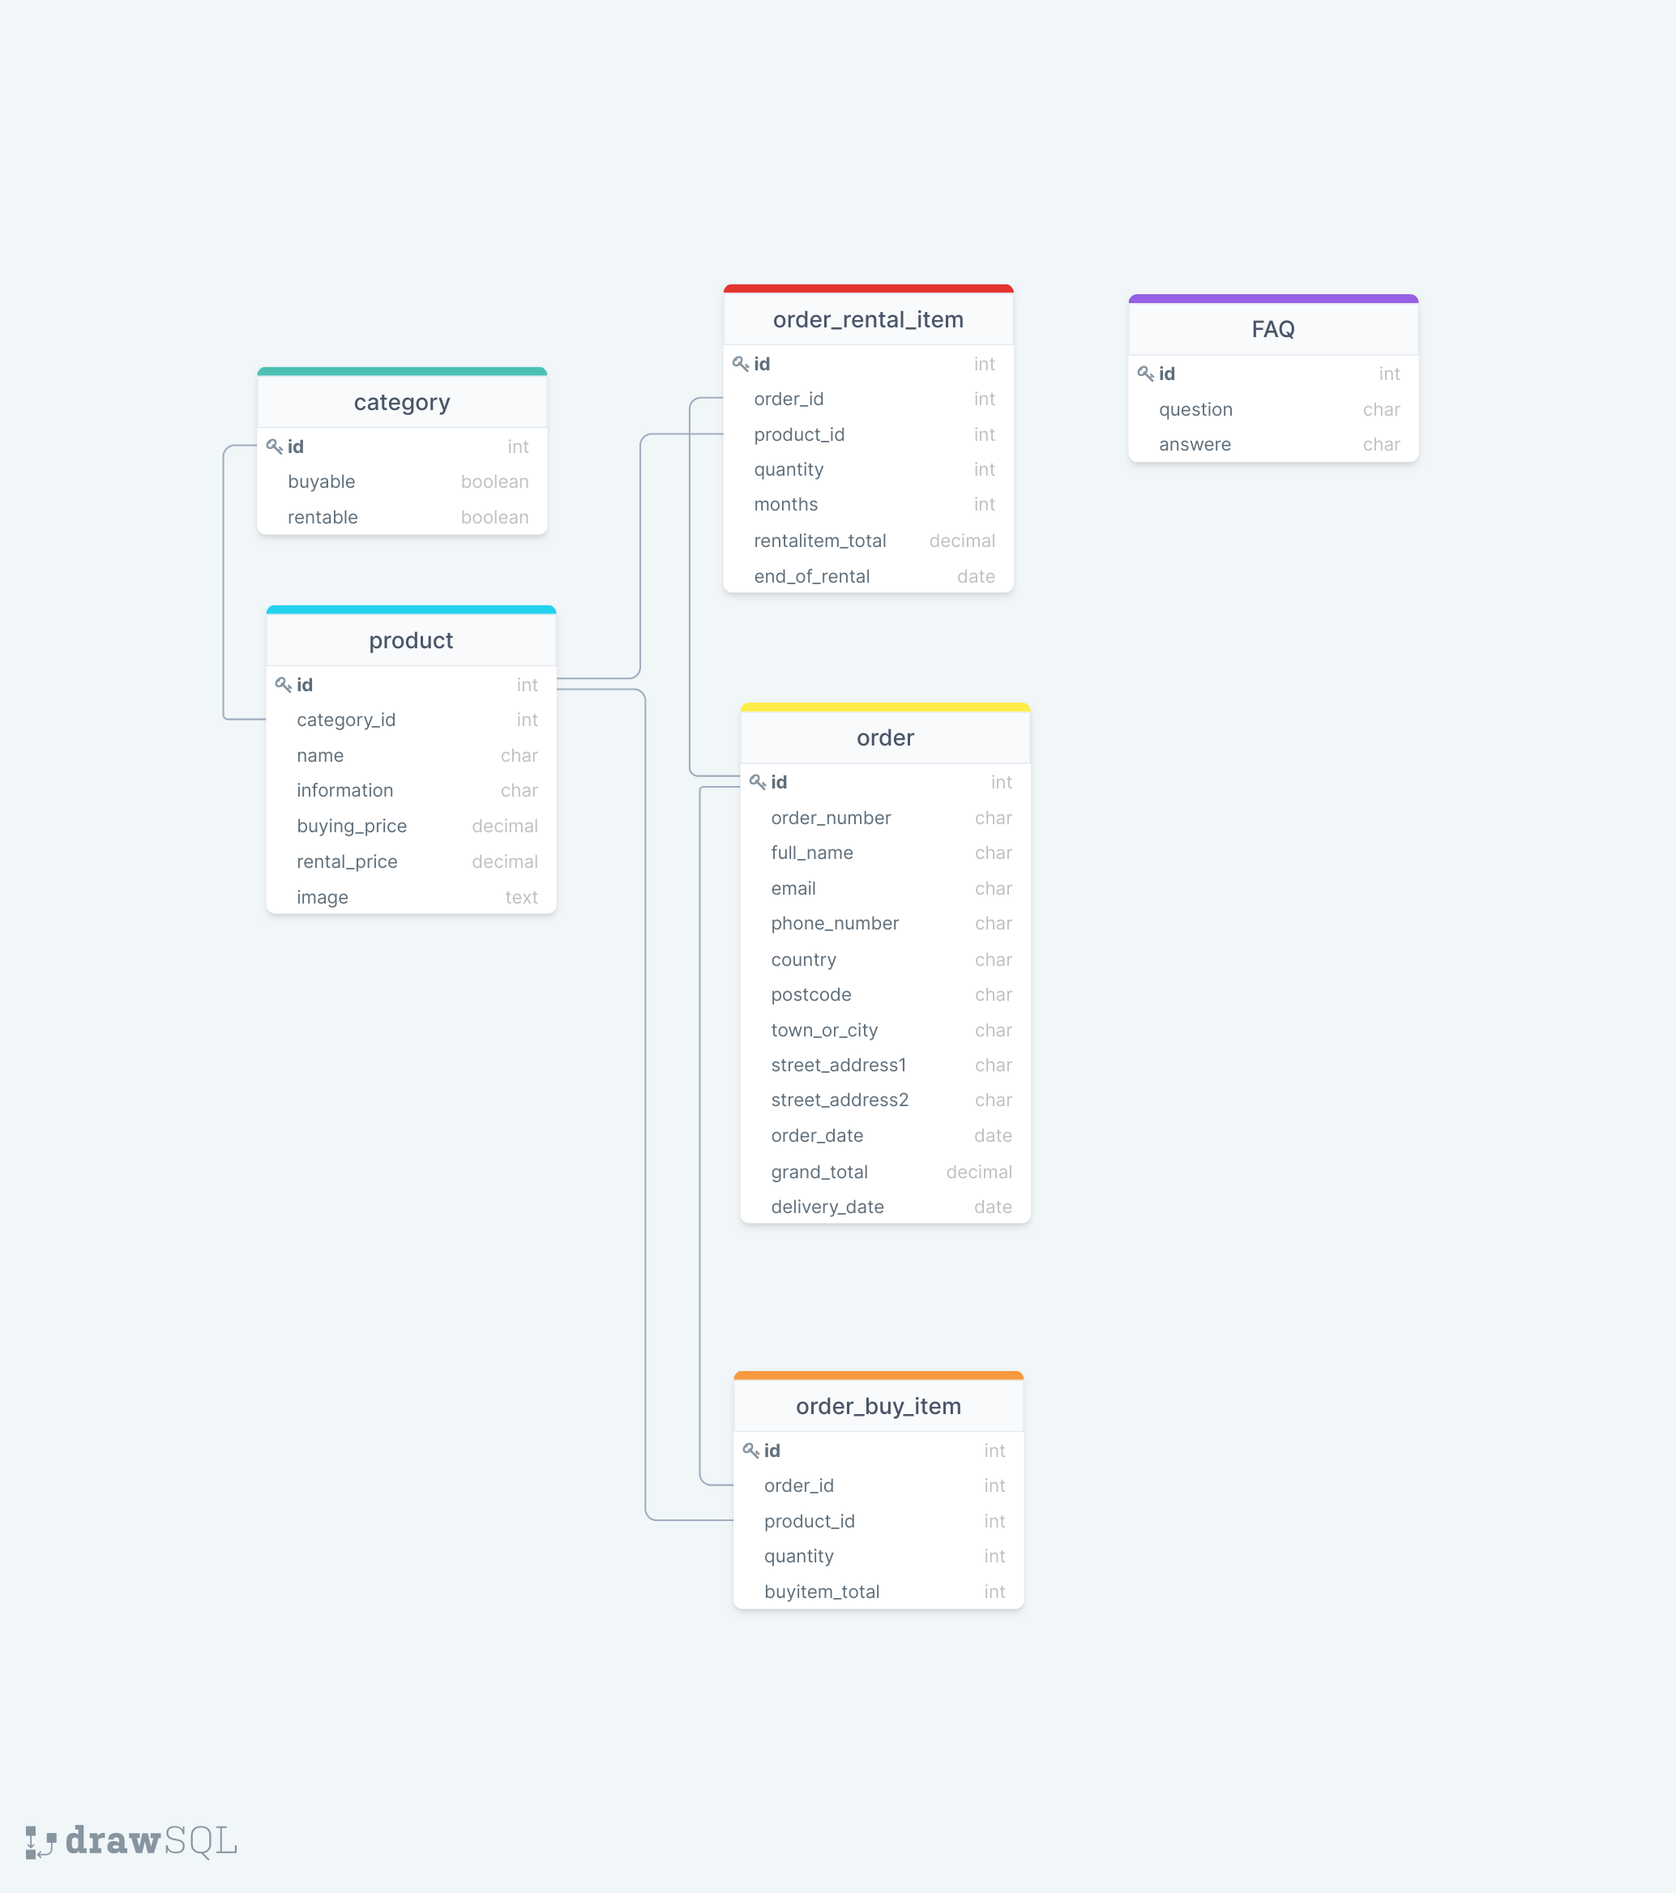
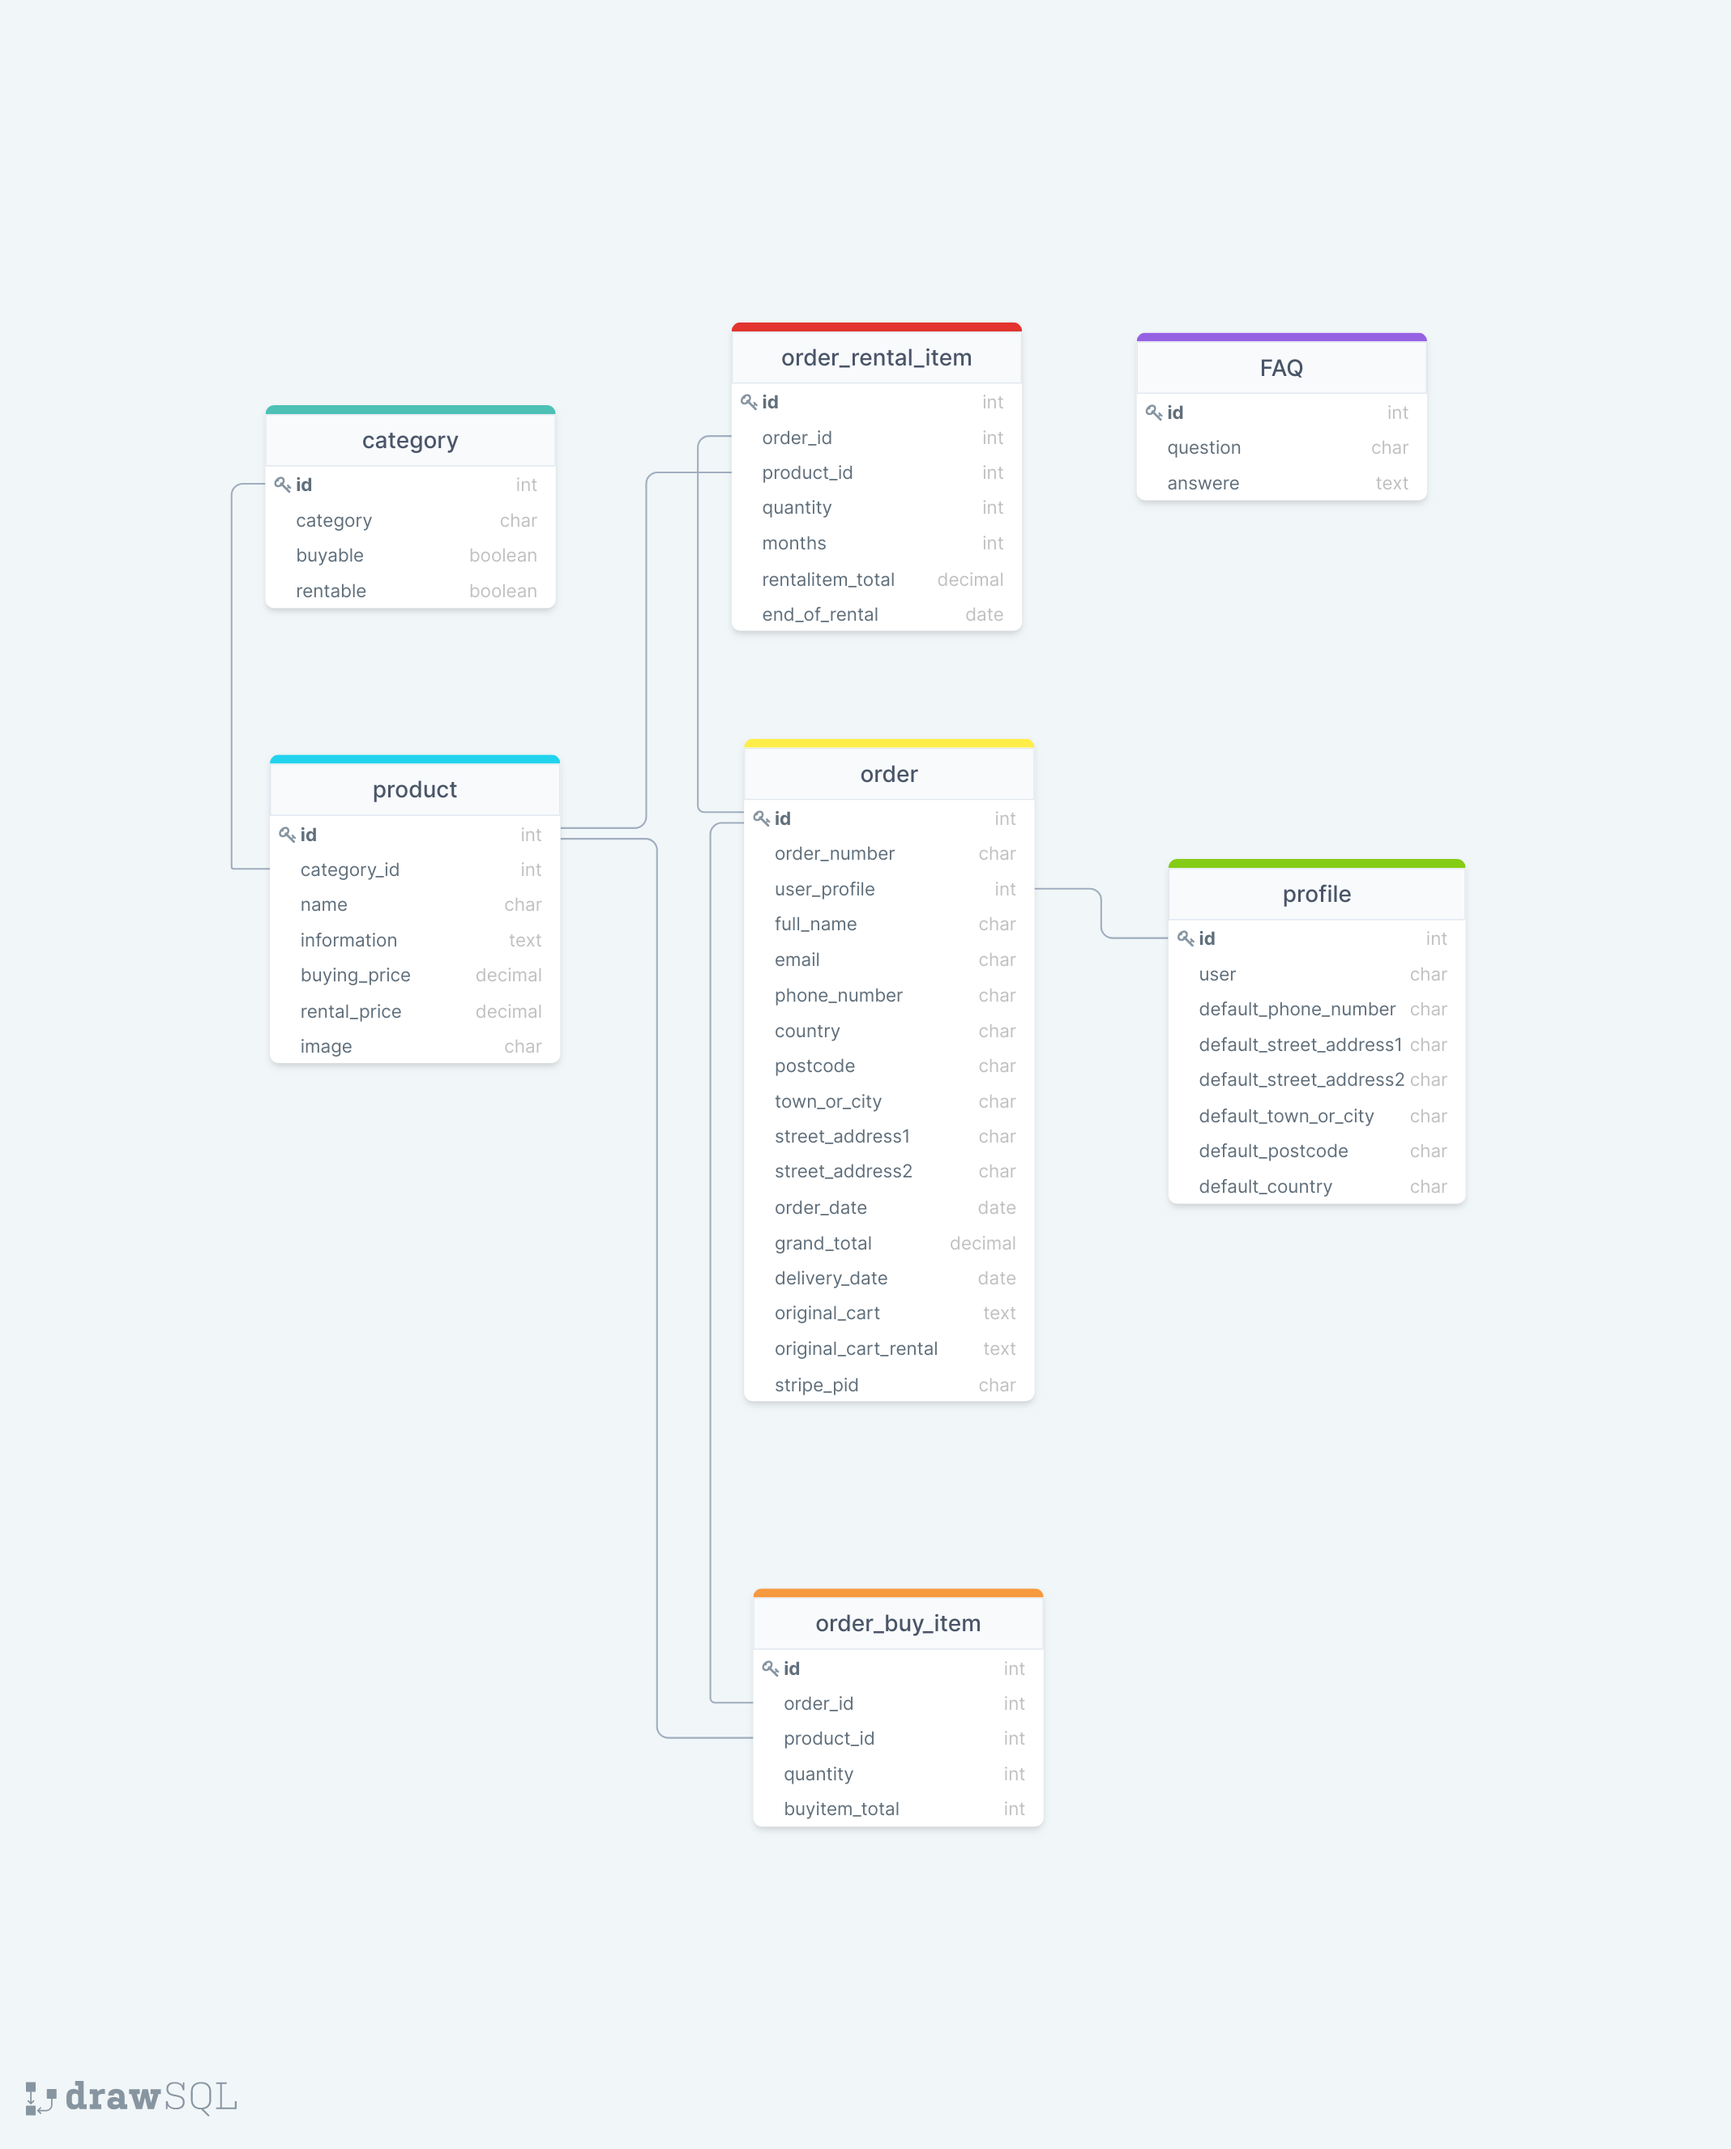
README: Added images of the different features

diff --git a/README.md b/README.md
@@ -150,6 +150,12 @@ The live project can be found here: [https://hire-hens.herokuapp.com/](https://h
 ##### Data modell
 The data modell was visualised with [DrawSQL](https://drawsql.app/):
 ![Data Model](wireframes/data_model.png)
+In the visualisation the modells Group, Email_address, User and Site is not shown. It is the modells that django provide.
+The column types shown in visualization differs in some case from reality. Here is the differenses:
+- In Order and Profile, column country have the django fieldtype: CountryField.
+- In Order, column order_date and delivery_date are DatetimeFields.
+- In Product, column image is an ImageField.
+- In OrderRentalItem, column end_of_rental is DatetimeField.
 
 #### Design Choices
 ##### Fonts
@@ -185,29 +191,63 @@ The application differs from Boutique Ado in:
         * ADM (only for users with administrators authority)- a dropdown where you can choose between Products, Orders or FAQ.
         *  My Account - if you are logged in you can choose My Profile or Log out. If you are not logged in you can choose between Log in or Register.
         * Cart: Here you can see total sum of products/rentals in cart. Link leads to the cart.
+
+![implementation of navbar large viewports](readme_materials/navbar_lg.jpg)
+
+![implementation of navbar small viewports](readme_materials/navbar_sm.jpg)
+
     * Toasts with messages are shown in top of page. They disappear when user closes them or if user interact in other ways in the page or got to other page.
+
+![implementation of toast](readme_materials/toast.jpg)
+ 
     * Footer: With contact information.
+
+![implementation of footer large viewports](readme_materials/footer_lg.jpg)
+
+![implementation of footer small viewports](readme_materials/footer_sm.jpg)
+
 **home**
 * Home -page: Picture to attract users and possibility to go and Explore rental alternatives.
 
+![implementation of homepage ](readme_materials/homepage.jpg)
+
 **products**
 * Show rental products within category-page:
+
+![implementation of products within category ](readme_materials/rental_products_within_category.jpg)
+
     * All products belonging to a category, with general information and possibility to go to product detail page.
     * From Hire in navbar user is guided to product belonging to Hens category page. When hens are added to cart user is guided to Coops and then Equipment.
     * If user is an administrator and is guided to this page from the ADM link in navbar: All products are shown. User can choose to add, change or delete product. When adding or changing a product user is guided to manage product page. When deleting a product a modal is shown asking if user is sure he/she wants to delete the product.
+
+![implementation of product administration ](readme_materials/product_management.jpg)
+
+
+![implementation asking user if sure to remove ](readme_materials/remove_question.jpg)
+
 * Show product details page:
-    * Gives more information about a product. A possibility to choose number of months and number of items to rent and add to cart.
+    * Gives more information about a product. A possibility to choose number of months (if applicable) and number of items to rent and add to cart.
     * Possibility for user to go to cart.
     * The number of months is saved in context and for every new item to rent, user is presented with the last choosen number of months.
+
+![implementation of product details](readme_materials/product_details_rent.jpg)
+
 * Manage product page:
     * Add product: User can fill in information about the product in a form and then submit.
+
+![implementation of add product](readme_materials/add_product.jpg)
+
     * Change product: User is presented with current information about the product in a form. User can change the information and then submit.
+
+![implementation of change product details ](readme_materials/edit_product.jpg)
 
 **cart**
 * Shopping cart page:
     * User can see both products to buy and products to rent with quantity, number of months and price. Subtotals and Grand totals are calculated and presented.
     * Possibility to go to checkout page.
     * User can change the quantity. If user chooses to remove item from cart a modal is shown that askes if user is sure.
+
+![implementation of cart](readme_materials/cart.jpg)
 
 **checkout**
 * Checkout page:
@@ -216,8 +256,14 @@ The application differs from Boutique Ado in:
     * An overview of the shopping cart is presented.
     * User can choose to complete order or return to shopping cart.
     * Webhooks is used to communicate with Stripe to be sure no orders are lost due to unintendet behaviour.
+
+![implementation of checkout page ](readme_materials/checkout.jpg)
+
 * Checkout success page:
     * If payment and order transactions are succesfull the user is guided to this page. Here is information of order number and order details.
+
+![implementation of checkout success](readme_materials/checkout_success.jpg)
+
 * Administrate orders page:
     * Initially all orders are shown. But user can filter to show:
         * All orders
@@ -226,31 +272,59 @@ The application differs from Boutique Ado in:
     * Orders that are not delivered are "marked" with a red Not Delivered.
     * For orders with rental due the date of rental due is shown. Rental due in the future are green and rental due that is late are red.
     * Possibility to choose to se more details about an order. Then user is guided to order details page.
+
+![implementation of order administration](readme_materials/adm_orders.jpg)
+
 * Order details page:
     * The details for the order with all items to buy and all items to rent.
     * If order there is no delivery date for order in database. Not delivered is shown in red. User is given possibility to add todays date as delivery date.
     * If a rental item has a rental due, the rental due date is shown. The date is red if due date has passed and green if the date is in the future. User has the possibility to "mark" rental as returned.
+
+![implementation of order details](readme_materials/order_details.jpg)
 
 **profile**
 * Profile page:
     * A form with user contact information and delivery information. User can update information and save.
     * An overview of order history and possibility to look at specific order by linking to Checkout success page.
 
+![implementation of profile page](readme_materials/profile.jpg)
+
 **faq**
 * FAQ-page:
     * Frequently asked questions and corresponding answers are shown in an "accordion".
+
+![implementation of the faq accordion](readme_materials/faq.jpg)
+
     * If user is an administrator, user can choose to add, change or delete FAQ.
+
+![implementation of faq administration](readme_materials/faq_adm.jpg)
+
     * If user wants to delete a faq a modal is shown with the question if user is sure.
+
 * FAQ input page:
     * If user is administrator:
         * Add FAQ: A form is presented where user can add question and answere and submit.
+
+![implementation of add faq](readme_materials/add_faq.jpg)
+
         * Change FAQ: Information for a specific FAQ is presented in a form and user can change the information and then submit.
+
+![implementation of change faq](readme_materials/edit_faq.jpg)
+
 * Register page:
     * User register email, user name, password and repeat of password in a form.
+
+![implementation of register ](readme_materials/sign_up.jpg)
+
 * Sign in page:
     * User give user name and password in a form.
+
+![implementation of log in ](readme_materials/sign_in.jpg)
+
 * Log out page:
     * User confirm that he/she wants to log out.
+
+![implementation of log out](readme_materials/sign_out.jpg)
 
 ### Responsive
 The site is designed to fit devices with screen widths from 320px and larger.
